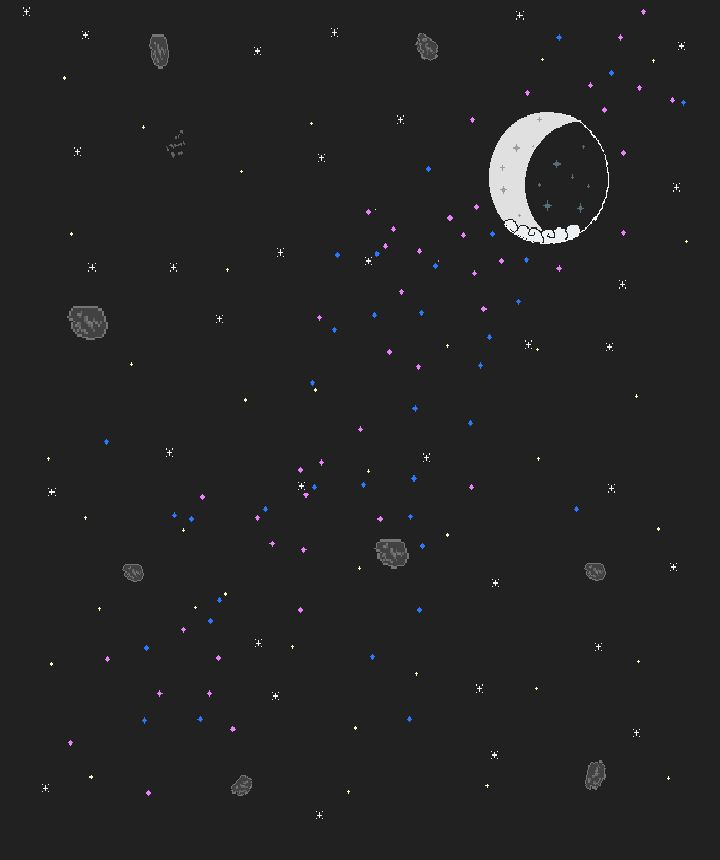
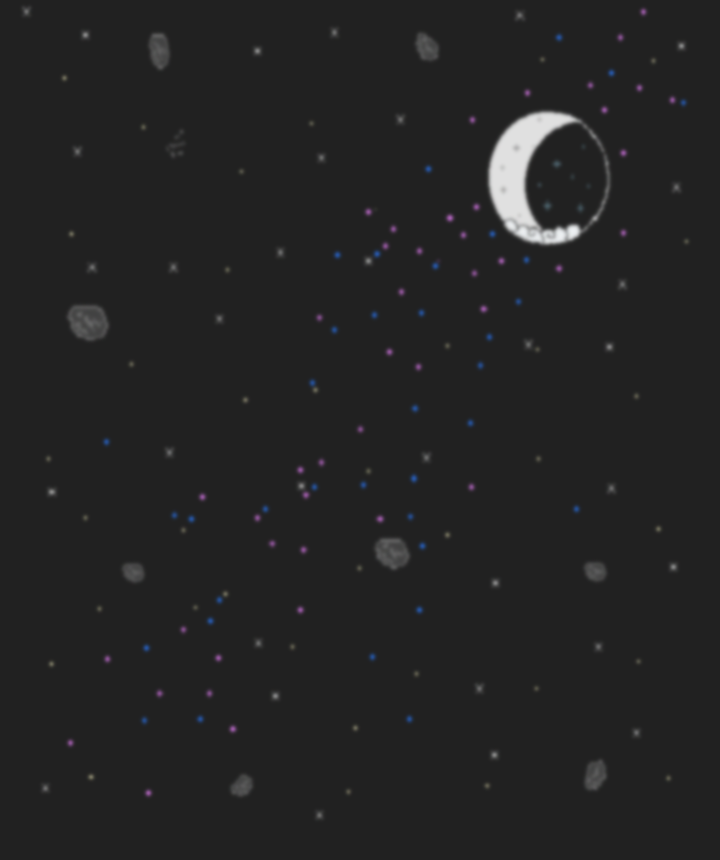
blur BG and no debug

diff --git a/src/main.js b/src/main.js
@@ -16,7 +16,7 @@ let config = {
             //debug: true
         },
         matter: {
-            debug: true
+            //debug: true
         }
     },
     scene: [ Menu, LevelSelect1, LevelSelect2, LevelSelect3, LevelSelect4, Level0, Level1, Level2, Level3, Level4, Level5, Level6, Level7, Level8, Level9, 
